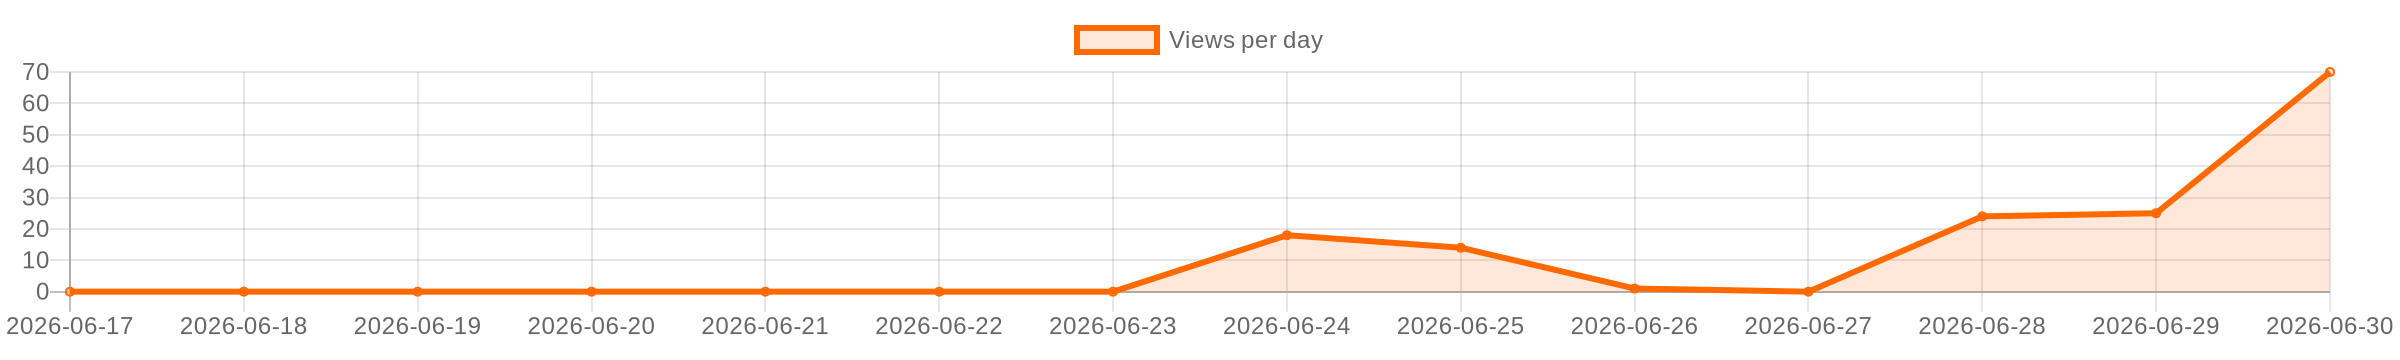
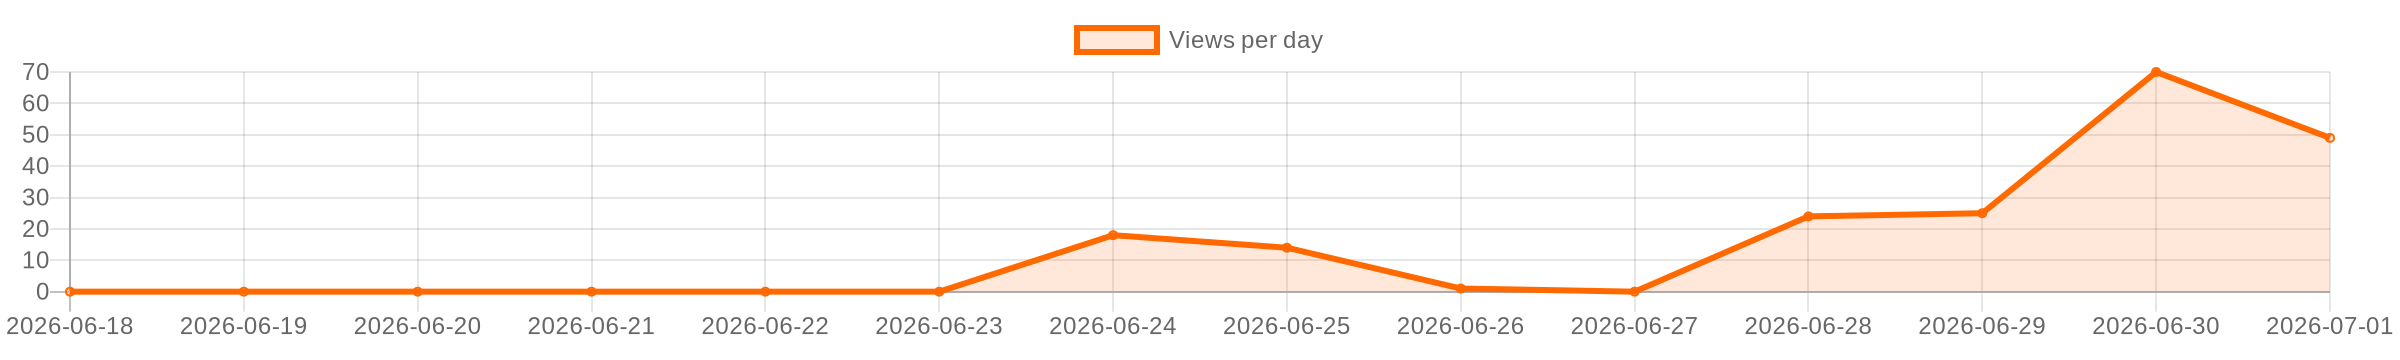
update README stats, graph, issues and translation [skip ci]

diff --git a/README.en.md b/README.en.md
@@ -13,12 +13,12 @@
 
 
 <!-- STATS_START -->
-<!-- auto-updated by GitHub Actions · 2026-07-02 07:01 UTC -->
+<!-- auto-updated by GitHub Actions · 2026-07-02 08:01 UTC -->
 
-[![Views local](https://img.shields.io/badge/Views_local-114-ff6900?style=for-the-badge&logo=github)](https://github.com/gooog1111/voicepack-tool-xiaomi-x20-pro-max)
-[![Views GitHub](https://img.shields.io/badge/Views_GitHub-152-ff6900?style=for-the-badge&logo=github)](https://github.com/gooog1111/voicepack-tool-xiaomi-x20-pro-max)
-[![Unique visitors](https://img.shields.io/badge/Unique-28-blue?style=for-the-badge&logo=github)](https://github.com/gooog1111/voicepack-tool-xiaomi-x20-pro-max)
-[![Clones](https://img.shields.io/badge/Clones-1191-purple?style=for-the-badge&logo=github)](https://github.com/gooog1111/voicepack-tool-xiaomi-x20-pro-max)
+[![Views local](https://img.shields.io/badge/Views_local-115-ff6900?style=for-the-badge&logo=github)](https://github.com/gooog1111/voicepack-tool-xiaomi-x20-pro-max)
+[![Views GitHub](https://img.shields.io/badge/Views_GitHub-201-ff6900?style=for-the-badge&logo=github)](https://github.com/gooog1111/voicepack-tool-xiaomi-x20-pro-max)
+[![Unique visitors](https://img.shields.io/badge/Unique-29-blue?style=for-the-badge&logo=github)](https://github.com/gooog1111/voicepack-tool-xiaomi-x20-pro-max)
+[![Clones](https://img.shields.io/badge/Clones-1414-purple?style=for-the-badge&logo=github)](https://github.com/gooog1111/voicepack-tool-xiaomi-x20-pro-max)
 [![Stars](https://img.shields.io/badge/Stars-0-yellow?style=for-the-badge&logo=github)](https://github.com/gooog1111/voicepack-tool-xiaomi-x20-pro-max/stargazers)
 [![Forks](https://img.shields.io/badge/Forks-0-green?style=for-the-badge&logo=github)](https://github.com/gooog1111/voicepack-tool-xiaomi-x20-pro-max/network/members)
 [![Downloads latest release](https://img.shields.io/badge/Downloads_latest_release-0-brightgreen?style=for-the-badge)](https://github.com/gooog1111/voicepack-tool-xiaomi-x20-pro-max/releases/latest)
@@ -48,7 +48,7 @@
 
 
 <!-- ISSUES_START -->
-<!-- auto-updated by GitHub Actions · 2026-07-02 07:01 UTC -->
+<!-- auto-updated by GitHub Actions · 2026-07-02 08:01 UTC -->
 
 ## Issues
 

diff --git a/README.md b/README.md
@@ -13,12 +13,12 @@
 
 
 <!-- STATS_START -->
-<!-- auto-updated by GitHub Actions · 2026-07-02 07:01 UTC -->
+<!-- auto-updated by GitHub Actions · 2026-07-02 08:01 UTC -->
 
-[![Views local](https://img.shields.io/badge/Views_local-114-ff6900?style=for-the-badge&logo=github)](https://github.com/gooog1111/voicepack-tool-xiaomi-x20-pro-max)
-[![Views GitHub](https://img.shields.io/badge/Views_GitHub-152-ff6900?style=for-the-badge&logo=github)](https://github.com/gooog1111/voicepack-tool-xiaomi-x20-pro-max)
-[![Unique visitors](https://img.shields.io/badge/Unique-28-blue?style=for-the-badge&logo=github)](https://github.com/gooog1111/voicepack-tool-xiaomi-x20-pro-max)
-[![Clones](https://img.shields.io/badge/Clones-1191-purple?style=for-the-badge&logo=github)](https://github.com/gooog1111/voicepack-tool-xiaomi-x20-pro-max)
+[![Views local](https://img.shields.io/badge/Views_local-115-ff6900?style=for-the-badge&logo=github)](https://github.com/gooog1111/voicepack-tool-xiaomi-x20-pro-max)
+[![Views GitHub](https://img.shields.io/badge/Views_GitHub-201-ff6900?style=for-the-badge&logo=github)](https://github.com/gooog1111/voicepack-tool-xiaomi-x20-pro-max)
+[![Unique visitors](https://img.shields.io/badge/Unique-29-blue?style=for-the-badge&logo=github)](https://github.com/gooog1111/voicepack-tool-xiaomi-x20-pro-max)
+[![Clones](https://img.shields.io/badge/Clones-1414-purple?style=for-the-badge&logo=github)](https://github.com/gooog1111/voicepack-tool-xiaomi-x20-pro-max)
 [![Stars](https://img.shields.io/badge/Stars-0-yellow?style=for-the-badge&logo=github)](https://github.com/gooog1111/voicepack-tool-xiaomi-x20-pro-max/stargazers)
 [![Forks](https://img.shields.io/badge/Forks-0-green?style=for-the-badge&logo=github)](https://github.com/gooog1111/voicepack-tool-xiaomi-x20-pro-max/network/members)
 [![Downloads latest release](https://img.shields.io/badge/Downloads_latest_release-0-brightgreen?style=for-the-badge)](https://github.com/gooog1111/voicepack-tool-xiaomi-x20-pro-max/releases/latest)
@@ -48,7 +48,7 @@
 
 
 <!-- ISSUES_START -->
-<!-- auto-updated by GitHub Actions · 2026-07-02 07:01 UTC -->
+<!-- auto-updated by GitHub Actions · 2026-07-02 08:01 UTC -->
 
 ## Issues
 
